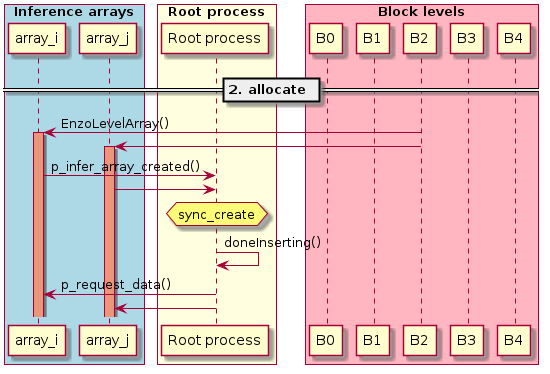
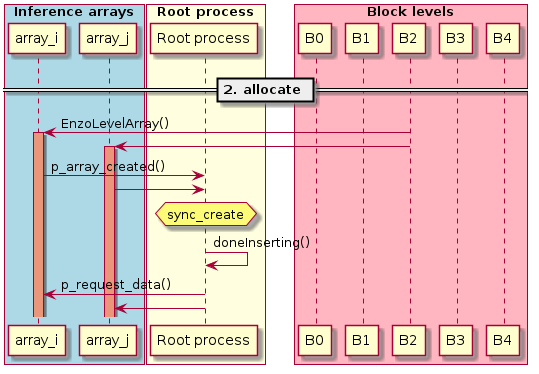
inference array docs clarification and fixes

diff --git a/doc/source/design/design-inference.rst b/doc/source/design/design-inference.rst
@@ -79,7 +79,10 @@ Phases of the algorithm are enumerated below:
    4. **Apply inference**: inference arrays apply the external DL inference method
    5. **Update blocks**: inference arrays send results back to intersecting leaf blocks
 
-These phases are described in detail below:
+These phases are described in detail below. Note entry method
+organization prefixes are omitted below to clarify the UML sequence
+diagram labeling; e.g.  ``EnzoBlock::p_exit()`` in the documentation
+refers to ``EnzoBlock::p_method_infer_exit()`` in code.
 
 Phase 1. Evaluate
 =================
@@ -99,7 +102,7 @@ where to create inference arrays.  Control enters the method at the
 Block level, such that ``EnzoMethodInference::compute()`` is called on
 all blocks, which in turn call ``apply_criteria()``.
 
-The criteriumcurrently implemented is whether the point-wise density
+The criteria currently implemented are whether the point-wise density
 is greater than the block-local average by some specified threshold.
 (See the :ref:`Inference Parameters<inference parameters>` section for
 user parameters for the inference method, including density
@@ -174,14 +177,14 @@ object calls ``p_request_data()`` on all elements of the array. Each
 level array element sends a request to the unique block in
 ``level_base`` that it intersects.  This request is then forwarded via
 child blocks to all intersecting leaf Blocks using
-``p_method_infer_request_data()``.
+``p_request_data()``.
 
 When an intersecting leaf Block is reached, it serializes the required
 portion of field data and sends it directly to the intersecting inference array.
 Blocks coarser than ``level_infer`` must interpolate the
 data, which is done on the receive end; blocks finer than
 ``level_infer`` restrict data before sending it. The data is sent
-directly to the requisting level array element using
+directly to the requesting level array element using
 ``EnzoLevelArray::p_transfer_data()``.
 
 Phase 4. Apply inference
@@ -194,7 +197,7 @@ Level array elements keep track of incoming data, counting the relative volume o
 incoming data until the relative volume reaches 1.0. After the last piece of data
 is received and copied into the inference arrays, the level array element calls
 ``EnzoLevelArray::apply_inference()``. After the DL inference
-method is applied, ``p_infer_done()`` is called on the root-level Simulation
+method is applied, ``p_done()`` is called on the root-level Simulation
 object. The root Simulation object counts down the number of calls received,
 so it knows when all DL inference methods have completed.
 
